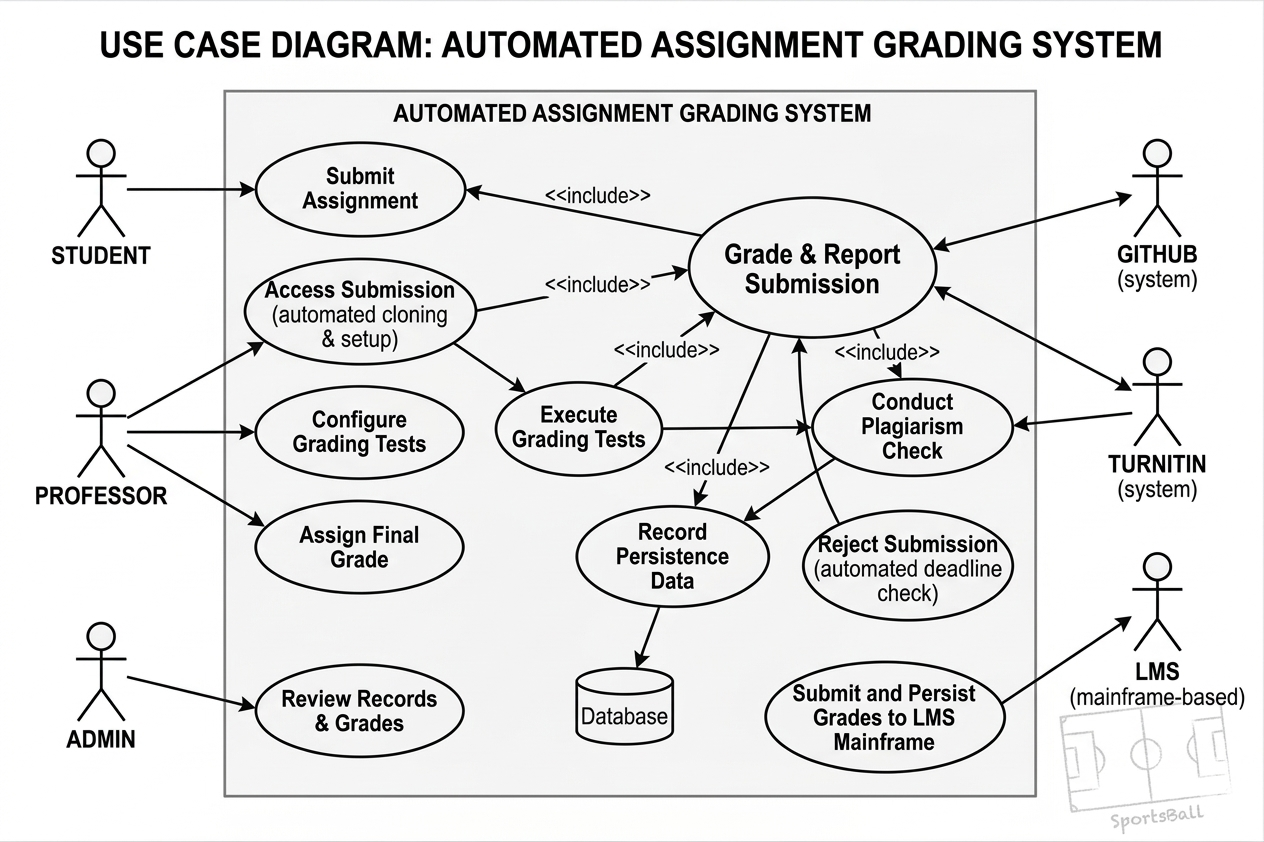
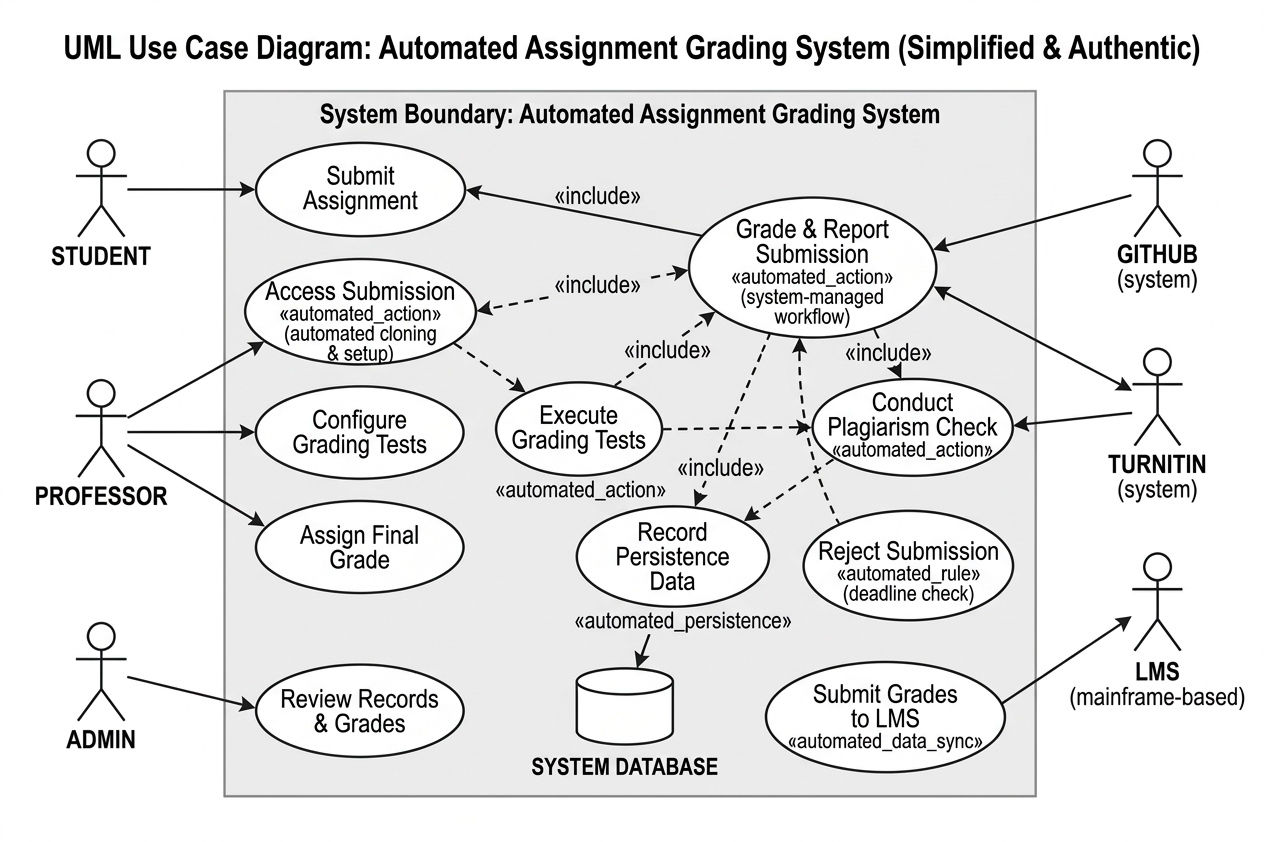
changed practical_2

diff --git a/practicals/practical_2/README.md b/practicals/practical_2/README.md
@@ -17,10 +17,13 @@ These modeling techniques help in visualizing system behavior, improving design 
 1
 ![alt text](IOD.png)
 
+an Automated Assignment Grading workflow where a student begins by submitting their work to a GitHub repository. The process then splits into two parallel paths for the professor: one focused on technical review (cloning the repo and checking output in VSCode) and the other on academic integrity (checking for plagiarism via Turnitin). Once the submission is validated, the professor assigns a grade, which is then reviewed by an administrator for record-keeping before the process reaches its final conclusion. If a submission is rejected at the plagiarism stage, the loop resets, presumably requiring the student to start over.
+
+
 2
 ![alt text](<UseCase (UCD).png>)
 
-3
+outlines the functional requirements of the Automated Assignment Grading System, highlighting the interactions between human actors and external technical systems. At its core, the Student initiates the process by submitting an assignment, which triggers a central "Grade & Report Submission" function. This central use case automatically coordinates several included actions: cloning code from GitHub, executing automated tests, performing a plagiarism check via Turnitin, and persisting data to a database. The Professor manages the logic by configuring tests and assigning final grades, while the Admin oversees the records. Ultimately, the system automates the heavy lifting of evaluation and syncs the results directly with the LMS Mainframe.
 
 
 ## 4. Conclusion
